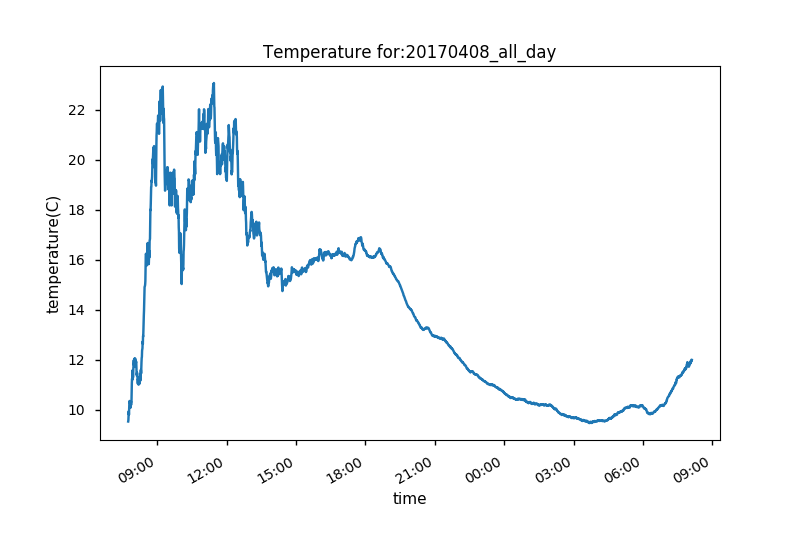
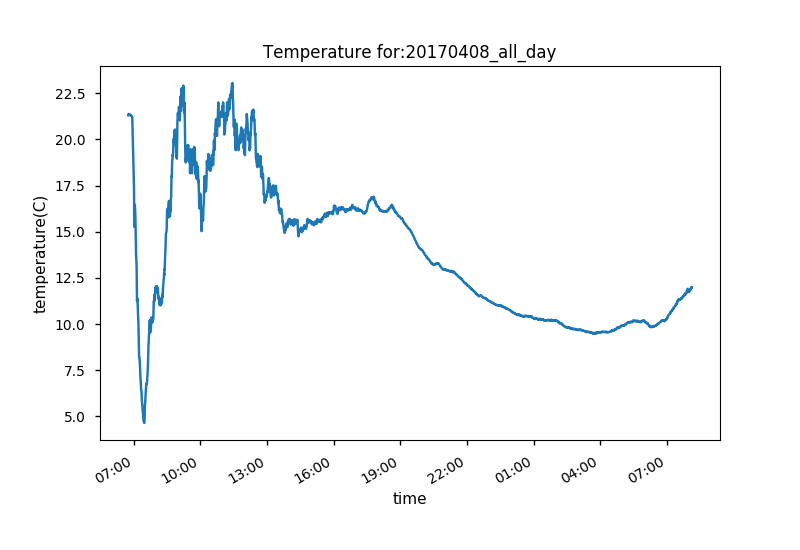
GUI modularized to menus.py. slight change to time handling of data

diff --git a/main.py b/main.py
@@ -14,13 +14,6 @@ will wait until you tell it when you want it to start. Keep hitting enter to sta
 # Data is of form: Time, Temperature, Pressure, Relative Humidity.
 
 # Change this to False for day light savings time
-add_hour = True
-
-if add_hour:
-    time_correction = 1
-else:
-    time_correction = 0
-
 
 
 #=====================Importing Modules============================
@@ -39,19 +32,21 @@ from modules.menus import *
 # Use this to change the style of graph
 plt.style.use('seaborn-notebook')
 
+# ======================= DST correction ================
+
+add_hour = True # False for minus one hour (winter)
+
+if add_hour:
+    time_correction = 1
+else:
+    time_correction = 0
+
 
 # =================== All the file handling ==========================
 
-input("Choose .txt to use for data - press any key to continue")
+input("Choose .txt to use for data - press 'enter' to continue")
 
-# File location from user using pretty GUI
-root = tk.Tk()                      # make it
-root.withdraw()                     # how to
-raw_path = filedialog.askopenfile() # what to
-root.destroy()                      # get rid of
-
-# This is needed to make the file path work correctly
-file_path = raw_path.name
+file_path = GUI_file_selector()
 
 # Make sure the filename looks correct
 print("\n")
@@ -65,9 +60,8 @@ data_begin = data_start(file_path, lines_to_scan) # data_start is cutom function
 
 # Imported function that runs through and get information from user. See modules
 # file for more information
+# no DST corrrection because this is data start time. Not plotted
 start_time = get_start(data_begin)
-
-start_time = start_time + datetime.timedelta(hours=time_correction)
 
 print("Start time is: {}".format(start_time))
 
@@ -169,15 +163,9 @@ elif user_selection == 5:
 
 elif user_selection == 6:
     # ASOS handling
-    input("\nNext Screen is the official file input - any key to continue")
+    input("\nNext Screen is the ASOS file input - press 'enter' to continue")
 
-    root = tk.Tk()                      # make it
-    root.withdraw()                     # how to
-    raw_path = filedialog.askopenfile() # what to
-    root.destroy()                      # get rid of
-
-    # This is needed to make the file path work correctly
-    official_file = raw_path.name
+    official_file = GUI_file_selector()
 
     # appended "_ASOS" to data names to avoid potential conflicts
     station_ASOS, times_ASOS, temperature_ASOS, dew_point_ASOS, rel_hum_ASOS, dirct,\
@@ -185,7 +173,7 @@ elif user_selection == 6:
 
     station_ASOS = station_ASOS[0]
 
-    print("\nASOS data loaded\nWhat would you like to compare?")
+    print("\nASOS data loaded!\nWhat would you like to compare?")
 
     # Creating secondary menu for more user input
     ASOS_menu = [("Temperature", 1),

diff --git a/modules/functions.py b/modules/functions.py
@@ -10,6 +10,7 @@ import numpy as np
 
 
 def data_start(fileName, lines_scanned):
+    # Goes through top of file to get the first time of data record
     """
     Get the starting time of the data without loading all the data
     :param fileName: path to file
@@ -33,6 +34,8 @@ def data_start(fileName, lines_scanned):
 
 
 def get_start(data_start_time):
+    # asks the user for a custom start time.
+    # Return start time
     """
     This will ask the user for the time they want the graph the start. If nothing is entered - will assume
     start of data as start of graph. Use to get rid of transient temperature change - for example, when the
@@ -93,13 +96,9 @@ def get_start(data_start_time):
 
 
 def get_data(filepath, start_time):
-    """
-    Function that actually gets the data and returns the lists of data to be plotted later
+    # Function that actually gets the data and returns the lists of data to be plotted later
+    # Returns time_list, temperature_list, pressure_list, rel_hum_list
 
-    :param filepath: String of path to file.
-    :param start_time: Time to start the graph. Use get_start to find this value
-    :return: reutns time, temperature, pressure, relative humidity as large lists
-    """
     with open(filepath) as f:
         data = f.readlines()
 
@@ -144,9 +143,10 @@ def get_data(filepath, start_time):
 
 
 def parse_ASOS(filepath):
-
     # ============== File opening and cleaning ==================
     # Opens file and gets data out of it
+    # Returns station, valid, tempf, dwpf, relh, dirct, mslp
+
     with open(filepath) as f:
         data = f.readlines()
 
@@ -218,10 +218,7 @@ def parse_ASOS(filepath):
 
 
 def pair_ASOS(times_in, variable_in):
-    """
-    Fuction takes the two variables and check to make sure that the variable
-    assosciated with the time is not empty
-    """
+    # Pairs data for ASOS reports. List will not be empty
     plot_times = []
     plot_variable = []
 

diff --git a/modules/menus.py b/modules/menus.py
@@ -1,7 +1,6 @@
-"""
-This is the file to output menus that look nice and pretty.
-The output can then be use to make other decisions
-"""
+
+import tkinter as tk
+from tkinter import filedialog
 
 def menu_maker(in_list):
     """
@@ -27,4 +26,17 @@ def menu_maker(in_list):
         except:
             print("Please enter a valid number")
     return user_output
+
+def GUI_file_selector():
+    # File location from user using pretty GUI
+    # returns full file path
+    root = tk.Tk()                      # make it
+    root.withdraw()                     # how to
+    raw_path = filedialog.askopenfile() # what to
+    root.destroy()                      # get rid of
+
+    # This is needed to make the file path work correctly
+    file_path = raw_path.name
+
+    return file_path
 

diff --git a/experimenal.py b/experimenal.py
@@ -1,0 +1,12 @@
+"""
+Experimental code goes here.
+Tests:
+    Curve fitting to data
+    Getting temperature error
+    Histogram of temperature error.
+    Average and std dev of error from ASOS.
+    Compare ASOS differences
+    Temperature error over time
+    Temperature error as function of temperature
+"""
+
